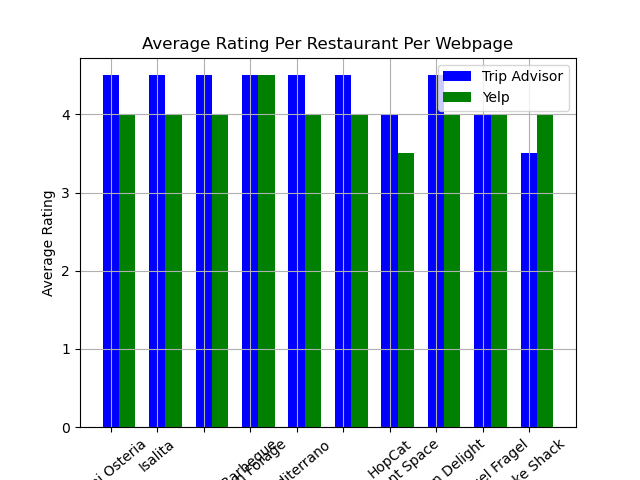
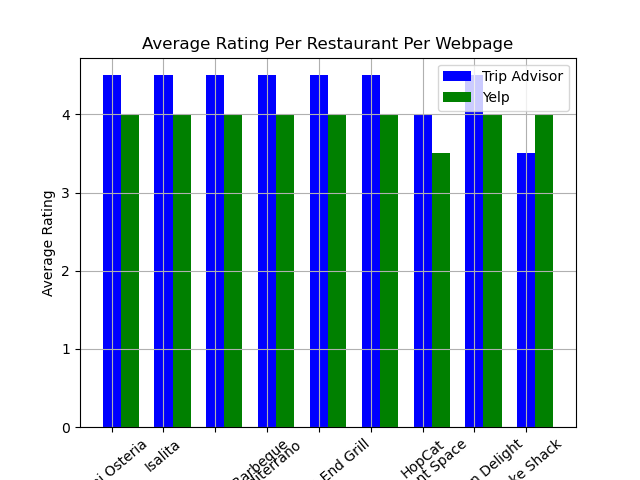
fixed zomato and added pie chart

diff --git a/RatingRatings.py b/RatingRatings.py
@@ -301,10 +301,12 @@ def getIdsZomato(cur, conn, term, count):
 
 # Get the important data for each restaurant
 def getDataZomato(cur, conn, data):
-    dict = {}
+    idDict = {}
     count = 0
-    for id in data:
-        rest = searchIndivZomato(data[id])
+    for resto in data:
+        idDict[resto[0]] = resto[1]
+    for resto in idDict:
+        rest = searchIndivZomato(idDict[resto])
         # Get name, rating, open, delivery, takeout, type, price
         name = rest['name'].replace("'", "")
         rating = rest['user_rating']['aggregate_rating']
@@ -356,10 +358,9 @@ def zomato(cur, conn):
     
     # Set of restaurants used across platforms to compare
     restos = ['Sava’s', 'Jolly Pumpkin', 'Slurping Turtle', 'Miss Kim’s', 'Zingerman’s Roadhouse', 'Chop House', 'Weber’s Restaurant', 'Mani Osteria', 'Isalita', 'Aventura', 'Blue Nile']
-    idsList ={}
     for name in restos:
-        idsList[name] = getIdsZomato(cur, conn, name, 1)
-    getDataZomato(cur, conn, idsList)
+        getIdsZomato(cur, conn, name, 1)
+    #getDataZomato(cur, conn, idsList)
     # Get more data:
     getIdsZomato(cur, conn, "dinner", 25)
     getIdsZomato(cur, conn, "bar", 25)
@@ -367,17 +368,14 @@ def zomato(cur, conn):
     getIdsZomato(cur, conn, "fast food", 25)
     getIdsZomato(cur, conn, "coffee", 25)
     cur.execute("SELECT * FROM ZomatoIds")
-    # Save data from table as dict instead of tuple
-    ids = cur.fetchall()
-    idDict = {}
-    for item in ids:
-        idDict[item[0]] = item[1]
+    allIds = cur.fetchall()
     # Break into groups of 25 in getRestoInfoYelp, make sure it goes through
-    # all data by collecting the length of yelpIds, run until count is that length
-    max = len(ids)
+    # all data by collecting the length of ZomatoIds, run until count is that length
+
+    max = len(allIds)
     count = 0
     while count < max:
-        count += getDataZomato(cur, conn, idDict[count:])
+        count += getDataZomato(cur, conn, allIds[count:])
 
 ###############################################################################
 # Calculations Functions
@@ -391,7 +389,8 @@ def get_rating_numerical(cur, conn):
     for x in cur.fetchall():
         names.append(x[0])
         TA_vals.append(float(x[1]))
-        Yelp_vals.append(float(x[2]))
+        if x[2] != "":
+            Yelp_vals.append(float(x[2]))
     #plot matlab
     fig, ax = plt.subplots()
     n = len(names)
@@ -419,6 +418,7 @@ def makePieChart(labels, sizes, name):
             shadow=True, startangle=90)
     ax1.axis('equal')
     plt.title(name)
+    plt.savefig(name)
     plt.show()
 
 #what percent are 5, 4, 3, 2, 1 
@@ -444,6 +444,8 @@ def get_TA_pie(cur, conn):
     sizes = [fives, fourfive, four, threefive, three]
     makePieChart(names, sizes, "Average TripAdvisor Ratings")
 
+    return sizes
+
 def get_Yelp_pie(cur, conn):
     names = ["5.0", "4.5", "4.0", "3.5", "<3.5"]
     ratings = []
@@ -466,6 +468,50 @@ def get_Yelp_pie(cur, conn):
     makePieChart(names, sizes, "Average Yelp Ratings")
 
     return sizes
+
+def get_Zomato_pie(cur, conn):
+    names = ["5.0", "4.5", "4.0", "3.5", "<3.5"]
+    ratings = []
+    fives = 0
+    fourfive = 0
+    four = 0
+    threefive = 0
+    three = 0
+    cur.execute("SELECT rating FROM Zomato")
+    data = cur.fetchall()
+    for rate in data:
+        ratings.append(rate[0])
+    fives = ratings.count('5.0')
+    fourfive = ratings.count('4.5')
+    four = ratings.count('4.0')
+    threefive = ratings.count('3.5')
+    three = ratings.count('3.0')
+
+    sizes = [fives, fourfive, four, threefive, three]
+    makePieChart(names, sizes, "Average Zomato Ratings")
+
+    return sizes
+
+def totPercentages(set1, set2, set3):
+    names = ["5.0", "4.5", "4.0", "3.5", "<3.5"]
+    if len(set1) == 5 and len(set2) == 5 and len(set3) == 5:
+        data = []
+        percentages = []
+        total = 0
+        data.append(set1[0] + set2[0] + set3[0])
+        data.append(set1[1] + set2[1] + set3[1])
+        data.append(set1[2] + set2[2] + set3[2])
+        data.append(set1[3] + set2[3] + set3[3])
+        data.append(set1[4] + set2[4] + set3[4])
+        for val in data:
+            total += val
+        for val in data:
+            fraction = int((val / total) * 100)
+            percentages.append(fraction)
+        
+        makePieChart(names, percentages, "Average Ratings Total")
+    else:
+        print("Error with size of data sets in totPercentages")
      
 ###############################################################################
 # MAIN
@@ -478,11 +524,10 @@ def setUpDatabase(db_name):
     return cur, conn
 
 def main():
+    
     cur, conn = setUpDatabase("ratings.db")
-
+    '''
     # Create tables for each resource
-    cur.execute("DROP TABLE TripAdvisor")
-    conn.commit()
     cur.execute("CREATE TABLE if NOT EXISTS Yelp (name VARCHARS, rating VARCHARS, open BOOLEAN, delivery BOOLEAN, takeout BOOLEAN, type LIST, price VARCHARS)")
     cur.execute("DELETE FROM Yelp")
     cur.execute("CREATE TABLE if NOT EXISTS Google (name VARCHARS, rating VARCHARS, open BOOLEAN, delivery BOOLEAN, takeout BOOLEAN, type LIST, price VARCHARS)")
@@ -490,23 +535,24 @@ def main():
     cur.execute("CREATE TABLE if NOT EXISTS TripAdvisor (name VARCHARS PRIMARY KEY, rating VARCHARS, isOpen BOOLEAN, type VARCHARS, price VARCHARS)")
     cur.execute("DELETE FROM TripAdvisor")
     cur.execute("CREATE TABLE if NOT EXISTS Zomato (name VARCHARS, rating VARCHARS, open BOOLEAN, delivery BOOLEAN, takeout BOOLEAN, type LIST, price VARCHARS)")
-    # Ran out of calls for Zomato so saving data
-    # cur.execute("DELETE FROM Zomato")
-    conn.commit()
+    cur.execute("DELETE FROM Zomato")
+    conn.commit()'''
 
     # Call each resource
-    yelp(cur, conn)
-    tripadvisor(cur,conn)
-    get_rating_numerical(cur,conn)
+    #yelp(cur, conn)
+    #tripadvisor(cur,conn)
+    #get_rating_numerical(cur,conn)
     # OUT OF CALLS FOR ZOMATO!
-    # zomato(cur, conn)
+    #zomato(cur, conn)
     # google(cur, conn)
 
-    #Calculations 
-    get_Yelp_pie(cur, conn)
-    get_TA_pie(cur, conn)
+    #Calculations
+    yelpPercent = get_Yelp_pie(cur, conn)
+    taPercent = get_TA_pie(cur, conn)
+    zomPercent = get_Zomato_pie(cur, conn)
+    totPercentages(yelpPercent, taPercent, zomPercent)
+
 
 
 main()
-#yelp(cur, conn)
 
